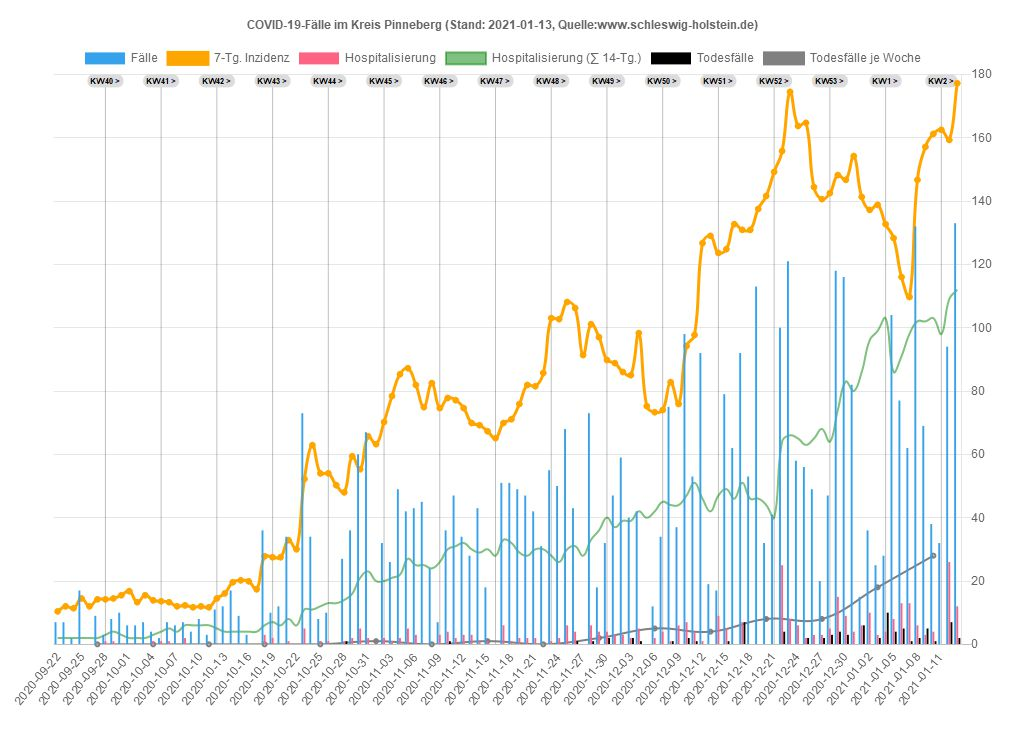
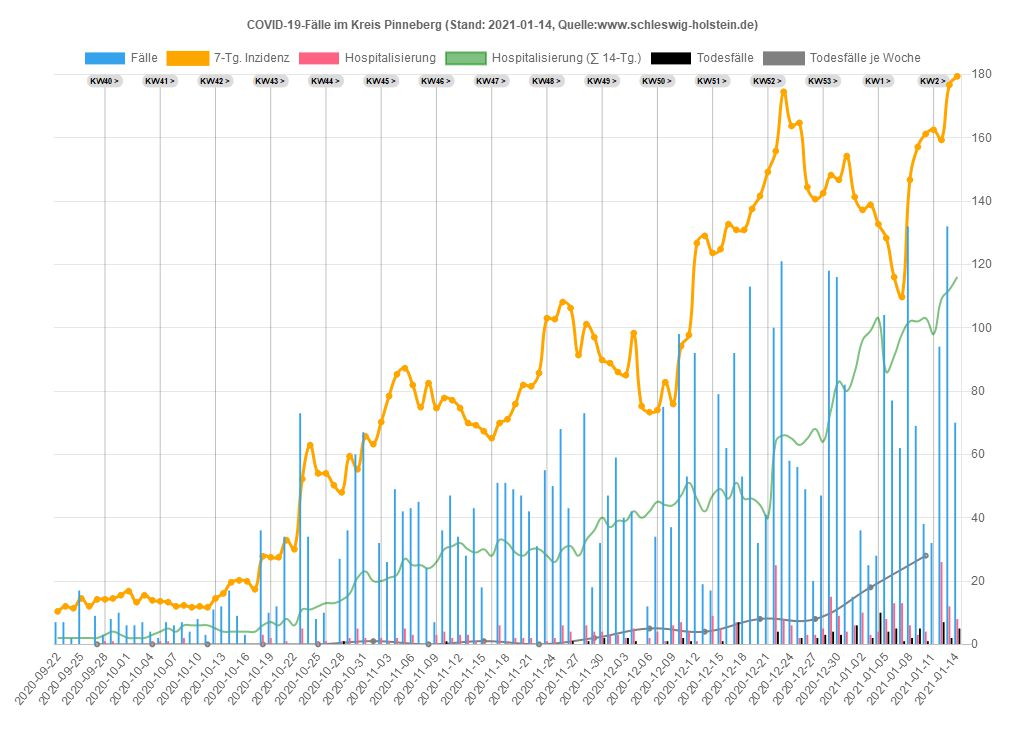
14.01.2021 20:09:24,05

Changed region(s): [[0.0625, 0.0931, 0.9375, 0.9622], [0.375, 0.4966, 0.5, 0.6208], [0.0938, 0.0931, 0.2188, 0.1242]]

diff --git a/sh/Data_SH.js b/sh/Data_SH.js
@@ -1,20 +1,20 @@
 var chdata={
-labels: ["2020-09-22","2020-09-23","2020-09-24","2020-09-25","2020-09-26","2020-09-27","2020-09-28","2020-09-29","2020-09-30","2020-10-01","2020-10-02","2020-10-03","2020-10-04","2020-10-05","2020-10-06","2020-10-07","2020-10-08","2020-10-09","2020-10-10","2020-10-11","2020-10-12","2020-10-13","2020-10-14","2020-10-15","2020-10-16","2020-10-17","2020-10-18","2020-10-19","2020-10-20","2020-10-21","2020-10-22","2020-10-23","2020-10-24","2020-10-25","2020-10-26","2020-10-27","2020-10-28","2020-10-29","2020-10-30","2020-10-31","2020-11-01","2020-11-02","2020-11-03","2020-11-04","2020-11-05","2020-11-06","2020-11-07","2020-11-08","2020-11-09","2020-11-10","2020-11-11","2020-11-12","2020-11-13","2020-11-14","2020-11-15","2020-11-16","2020-11-17","2020-11-18","2020-11-19","2020-11-20","2020-11-21","2020-11-22","2020-11-23","2020-11-24","2020-11-25","2020-11-26","2020-11-27","2020-11-28","2020-11-29","2020-11-30","2020-12-01","2020-12-02","2020-12-03","2020-12-04","2020-12-05","2020-12-06","2020-12-07","2020-12-08","2020-12-09","2020-12-10","2020-12-11","2020-12-12","2020-12-13","2020-12-14","2020-12-15","2020-12-16","2020-12-17","2020-12-18","2020-12-19","2020-12-20","2020-12-21","2020-12-22","2020-12-23","2020-12-24","2020-12-25","2020-12-26","2020-12-27","2020-12-28","2020-12-29","2020-12-30","2020-12-31","2021-01-01","2021-01-02","2021-01-03","2021-01-04","2021-01-05","2021-01-06","2021-01-07","2021-01-08","2021-01-09","2021-01-10","2021-01-11","2021-01-12","2021-01-13"],
+labels: ["2020-09-22","2020-09-23","2020-09-24","2020-09-25","2020-09-26","2020-09-27","2020-09-28","2020-09-29","2020-09-30","2020-10-01","2020-10-02","2020-10-03","2020-10-04","2020-10-05","2020-10-06","2020-10-07","2020-10-08","2020-10-09","2020-10-10","2020-10-11","2020-10-12","2020-10-13","2020-10-14","2020-10-15","2020-10-16","2020-10-17","2020-10-18","2020-10-19","2020-10-20","2020-10-21","2020-10-22","2020-10-23","2020-10-24","2020-10-25","2020-10-26","2020-10-27","2020-10-28","2020-10-29","2020-10-30","2020-10-31","2020-11-01","2020-11-02","2020-11-03","2020-11-04","2020-11-05","2020-11-06","2020-11-07","2020-11-08","2020-11-09","2020-11-10","2020-11-11","2020-11-12","2020-11-13","2020-11-14","2020-11-15","2020-11-16","2020-11-17","2020-11-18","2020-11-19","2020-11-20","2020-11-21","2020-11-22","2020-11-23","2020-11-24","2020-11-25","2020-11-26","2020-11-27","2020-11-28","2020-11-29","2020-11-30","2020-12-01","2020-12-02","2020-12-03","2020-12-04","2020-12-05","2020-12-06","2020-12-07","2020-12-08","2020-12-09","2020-12-10","2020-12-11","2020-12-12","2020-12-13","2020-12-14","2020-12-15","2020-12-16","2020-12-17","2020-12-18","2020-12-19","2020-12-20","2020-12-21","2020-12-22","2020-12-23","2020-12-24","2020-12-25","2020-12-26","2020-12-27","2020-12-28","2020-12-29","2020-12-30","2020-12-31","2021-01-01","2021-01-02","2021-01-03","2021-01-04","2021-01-05","2021-01-06","2021-01-07","2021-01-08","2021-01-09","2021-01-10","2021-01-11","2021-01-12","2021-01-13","2021-01-14"],
 datasets: [
 {label: 'Fälle',
 type: 'bar',
 backgroundColor: window.chartColors.blue,
-data: [38,42,63,53,15,15,38,48,49,27,50,16,24,39,54,45,79,54,26,25,65,65,65,55,90,26,88,163,111,160,136,236,142,115,164,164,280,215,313,265,161,142,236,262,220,274,233,177,215,252,247,192,296,158,161,100,294,208,264,250,153,121,145,251,256,225,180,219,71,81,244,240,245,318,234,122,179,356,340,443,429,444,144,210,506,522,489,553,440,193,280,589,673,366,177,201,188,268,576,466,357,135,264,203,265,542,537,482,523,408,140,263,402,462]},
+data: [38,42,63,53,15,15,38,48,49,27,50,16,24,39,54,45,79,54,26,25,65,65,65,55,90,26,88,163,111,160,136,236,142,115,164,164,280,215,313,265,161,142,236,262,220,274,233,177,215,252,247,192,296,158,161,100,294,208,264,250,153,121,145,251,256,225,180,219,71,81,244,240,245,318,234,122,179,356,340,443,429,444,144,210,506,522,489,553,440,193,280,589,673,366,177,201,188,268,576,466,357,135,264,203,265,542,537,482,523,408,142,262,401,488,401]},
 {label: '7-Tg. Inzidenz',
 type: 'line',
 fill: false,
 pointBackgroundColor: 'orange',
 borderColor: 'orange',
-data: [7.2,7.9,8.7,9.4,9.3,9.2,9.1,9.4,9.7,8.4,8.3,8.4,8.7,8.7,8.9,8.8,10.6,10.7,11.1,11.1,12.0,12.4,13.1,12.2,13.5,13.5,15.6,19.0,20.6,23.9,26.7,31.7,35.7,36.6,36.6,38.5,42.6,45.3,48.0,52.2,53.8,53.0,55.5,54.9,55.1,53.7,52.6,53.2,55.7,56.2,55.7,54.8,55.5,52.9,52.4,48.4,49.9,48.5,51.0,49.4,49.2,47.9,49.4,47.9,49.6,48.2,45.8,48.1,46.4,44.2,43.9,43.4,44.1,48.8,49.3,51.1,54.5,58.3,61.8,68.6,72.4,79.7,80.4,81.5,86.6,92.9,94.5,98.8,98.6,100.3,102.7,105.6,110.8,106.6,93.6,85.4,85.2,84.8,84.3,77.2,76.9,75.5,77.6,78.1,78.0,76.9,79.3,83.6,97.0,101.9,99.8,99.7,94.9,92.3]},
+data: [7.2,7.9,8.7,9.4,9.3,9.2,9.1,9.4,9.7,8.4,8.3,8.4,8.7,8.7,8.9,8.8,10.6,10.7,11.1,11.1,12.0,12.4,13.1,12.2,13.5,13.5,15.6,19.0,20.6,23.9,26.7,31.7,35.7,36.6,36.6,38.5,42.6,45.3,48.0,52.2,53.8,53.0,55.5,54.9,55.1,53.7,52.6,53.2,55.7,56.2,55.7,54.8,55.5,52.9,52.4,48.4,49.9,48.5,51.0,49.4,49.2,47.9,49.4,47.9,49.6,48.2,45.8,48.1,46.4,44.2,43.9,43.4,44.1,48.8,49.3,51.1,54.5,58.3,61.8,68.6,72.4,79.7,80.4,81.5,86.6,92.9,94.5,98.8,98.6,100.3,102.7,105.6,110.8,106.6,93.6,85.4,85.2,84.8,84.3,77.2,76.9,75.5,77.6,78.1,78.0,76.9,79.3,83.6,97.0,101.9,99.8,99.7,94.9,93.2,90.4]},
 {label: 'Hospitalisierung',
 type: 'bar',
 backgroundColor: window.chartColors.red,
-data: [1,2,7,1,0,0,2,1,3,1,1,0,4,3,1,1,4,2,0,3,5,1,1,2,4,0,9,10,8,9,12,7,5,6,7,7,11,10,11,6,3,9,19,20,15,15,5,7,13,15,21,13,17,8,17,13,23,10,15,9,7,7,13,16,26,19,12,14,15,10,12,8,10,14,3,5,24,13,26,20,14,12,6,26,27,16,20,18,8,13,13,43,35,23,17,21,26,25,46,33,33,20,34,32,51,58,35,46,34,30,22,45,69,51]},
+data: [1,2,7,1,0,0,2,1,3,1,1,0,4,3,1,1,4,2,0,3,5,1,1,2,4,0,9,10,8,9,12,7,5,6,7,7,11,10,11,6,3,9,19,20,15,15,5,7,13,15,21,13,17,8,17,13,23,10,15,9,7,7,13,16,26,19,12,14,15,10,12,8,10,14,3,5,24,13,26,20,14,12,6,26,27,16,20,18,8,13,13,43,35,23,17,21,26,25,46,33,33,20,34,32,51,58,35,46,34,30,22,45,69,51,59]},
 {label: 'Hosp. (∑ 14-Tg.)',
 type: 'line',
 fill: false,
@@ -22,17 +22,17 @@ hidden: true,
 borderColor: 'rgba(0,255,0,0.5)',
 borderWidth: 1.5,
 pointRadius: 0,
-data: [12,12,20,22,22,22,22,23,23,21,22,21,24,26,26,25,22,23,23,26,29,29,27,28,31,31,36,43,50,58,66,71,76,79,81,87,97,105,112,118,112,111,122,133,136,144,144,145,151,159,169,172,178,180,194,198,202,192,192,186,188,188,188,189,194,200,195,201,199,196,185,183,178,183,179,177,188,185,185,186,188,186,177,193,208,216,226,230,235,243,232,262,271,274,277,286,306,305,324,341,354,356,382,401,439,454,454,477,494,503,499,519,542,560]},
+data: [12,12,20,22,22,22,22,23,23,21,22,21,24,26,26,25,22,23,23,26,29,29,27,28,31,31,36,43,50,58,66,71,76,79,81,87,97,105,112,118,112,111,122,133,136,144,144,145,151,159,169,172,178,180,194,198,202,192,192,186,188,188,188,189,194,200,195,201,199,196,185,183,178,183,179,177,188,185,185,186,188,186,177,193,208,216,226,230,235,243,232,262,271,274,277,286,306,305,324,341,354,356,382,401,439,454,454,477,494,503,499,519,542,560,586]},
 {label: 'Aktuell im Krankenhaus',
 type: 'line',
 fill: false,
 pointBackgroundColor: 'green',
 borderColor: 'green',
-data: [6,6,6,6,6,6,6,11,11,11,11,14,14,15,15,14,14,14,13,13,18,18,18,21,24,24,24,24,31,31,31,31,51,51,58,58,58,58,58,58,58,94,110,114,119,118,124,120,126,116,113,119,112,116,116,148,145,151,141,141,141,141,155,142,122,113,118,118,118,124,114,110,109,114,114,114,131,122,128,132,133,133,133,177,181,194,201,212,236,250,275,271,267,262,262,262,262,309,318,322,346,346,376,376,390,412,376,379,364,364,364,384,362,373]},
+data: [6,6,6,6,6,6,6,11,11,11,11,14,14,15,15,14,14,14,13,13,18,18,18,21,24,24,24,24,31,31,31,31,51,51,58,58,58,58,58,58,58,94,110,114,119,118,124,120,126,116,113,119,112,116,116,148,145,151,141,141,141,141,155,142,122,113,118,118,118,124,114,110,109,114,114,114,131,122,128,132,133,133,133,177,181,194,201,212,236,250,275,271,267,262,262,262,262,309,318,322,346,346,376,376,390,412,376,379,364,364,364,384,362,373,382]},
 {label: 'Todesfälle',
 type: 'bar',
 backgroundColor: 'black',
-data: [0,0,0,0,0,0,0,1,0,0,0,0,0,0,0,0,0,0,0,0,0,1,0,0,0,0,0,0,0,0,1,0,0,3,0,0,3,4,1,0,2,6,7,2,2,6,0,1,4,3,5,0,5,1,3,5,0,2,2,2,1,0,3,4,1,3,3,1,4,2,3,1,4,1,0,1,4,2,5,7,7,1,2,2,6,7,11,3,2,0,9,15,4,3,4,7,10,18,17,14,2,9,7,3,29,22,17,6,14,11,9,15,25,15]},
+data: [0,0,0,0,0,0,0,1,0,0,0,0,0,0,0,0,0,0,0,0,0,1,0,0,0,0,0,0,0,0,1,0,0,3,0,0,3,4,1,0,2,6,7,2,2,6,0,1,4,3,5,0,5,1,3,5,0,2,2,2,1,0,3,4,1,3,3,1,4,2,3,1,4,1,0,1,4,2,5,7,7,1,2,2,6,7,11,3,2,0,9,15,4,3,4,7,10,18,17,14,2,9,7,3,29,22,17,6,14,11,9,15,25,15,15]},
 {label: 'Todesfälle je Woche',
 type: 'line',
 fill: false,
@@ -41,6 +41,6 @@ borderColor: 'rgba(128,128,128,1)',
 borderWidth: 2,
 pointRadius: 2,
 yAxisID: 'first-y-axis',
-data: [,,,,,0,,,,,,,1,,,,,,,0,,,,,,,1,,,,,,,4,,,,,,,10,,,,,,,24,,,,,,,21,,,,,,,12,,,,,,,19,,,,,,,12,,,,,,,28,,,,,,,31,,,,,,,52,,,,,,,70,,,,,,,108,,,]},
+data: [,,,,,0,,,,,,,1,,,,,,,0,,,,,,,1,,,,,,,4,,,,,,,10,,,,,,,24,,,,,,,21,,,,,,,12,,,,,,,19,,,,,,,12,,,,,,,28,,,,,,,31,,,,,,,52,,,,,,,70,,,,,,,108,,,,]},
 ]};
 

diff --git a/sh/Data_SH_Alter.js b/sh/Data_SH_Alter.js
@@ -124,7 +124,8 @@ var chdata={
 				{x: '2021-01-10', y: 'Alle', v: 96.9772775, casesum: 2816},{x: '2021-01-10', y: '00-09', v: 30.7725867, casesum: 79},{x: '2021-01-10', y: '10-19', v: 74.6357882, casesum: 206},{x: '2021-01-10', y: '20-29', v: 149.39274, casesum: 478},{x: '2021-01-10', y: '30-39', v: 121.693956, casesum: 409},{x: '2021-01-10', y: '40-49', v: 97.3124183, casesum: 343},{x: '2021-01-10', y: '50-59', v: 88.2113682, casesum: 437},{x: '2021-01-10', y: '60-69', v: 66.5694716, casesum: 242},{x: '2021-01-10', y: '70-79', v: 71.9762377, casesum: 213},{x: '2021-01-10', y: '80-89', v: 162.713457, casesum: 291},{x: '2021-01-10', y: '90+', v: 409.494725, casesum: 118},
 				{x: '2021-01-11', y: 'Alle', v: 96.2196425, casesum: 2794},{x: '2021-01-11', y: '00-09', v: 30.3830603, casesum: 78},{x: '2021-01-11', y: '10-19', v: 74.2734786, casesum: 205},{x: '2021-01-11', y: '20-29', v: 145.017221, casesum: 464},{x: '2021-01-11', y: '30-39', v: 118.421013, casesum: 398},{x: '2021-01-11', y: '40-49', v: 93.9079022, casesum: 331},{x: '2021-01-11', y: '50-59', v: 84.9816613, casesum: 421},{x: '2021-01-11', y: '60-69', v: 66.844552, casesum: 243},{x: '2021-01-11', y: '70-79', v: 72.9899875, casesum: 216},{x: '2021-01-11', y: '80-89', v: 170.541595, casesum: 305},{x: '2021-01-11', y: '90+', v: 461.549139, casesum: 133},
 				{x: '2021-01-12', y: 'Alle', v: 92.6380953, casesum: 2690},{x: '2021-01-12', y: '00-09', v: 29.9935339, casesum: 77},{x: '2021-01-12', y: '10-19', v: 77.5342654, casesum: 214},{x: '2021-01-12', y: '20-29', v: 140.954238, casesum: 451},{x: '2021-01-12', y: '30-39', v: 118.421013, casesum: 398},{x: '2021-01-12', y: '40-49', v: 83.6943539, casesum: 295},{x: '2021-01-12', y: '50-59', v: 77.9166776, casesum: 386},{x: '2021-01-12', y: '60-69', v: 65.4691497, casesum: 238},{x: '2021-01-12', y: '70-79', v: 66.569572, casesum: 197},{x: '2021-01-12', y: '80-89', v: 171.100748, casesum: 306},{x: '2021-01-12', y: '90+', v: 444.197668, casesum: 128},
-				{x: '2021-01-13', y: 'Alle', v: 90.3651904, casesum: 2624},{x: '2021-01-13', y: '00-09', v: 27.6563754, casesum: 71},{x: '2021-01-13', y: '10-19', v: 76.8096461, casesum: 212},{x: '2021-01-13', y: '20-29', v: 133.14081, casesum: 426},{x: '2021-01-13', y: '30-39', v: 116.338232, casesum: 391},{x: '2021-01-13', y: '40-49', v: 81.7083862, casesum: 288},{x: '2021-01-13', y: '50-59', v: 76.0999675, casesum: 377},{x: '2021-01-13', y: '60-69', v: 62.1681842, casesum: 226},{x: '2021-01-13', y: '70-79', v: 66.569572, casesum: 197},{x: '2021-01-13', y: '80-89', v: 173.337359, casesum: 310},{x: '2021-01-13', y: '90+', v: 437.257079, casesum: 126}
+				{x: '2021-01-13', y: 'Alle', v: 90.3651904, casesum: 2624},{x: '2021-01-13', y: '00-09', v: 27.6563754, casesum: 71},{x: '2021-01-13', y: '10-19', v: 76.8096461, casesum: 212},{x: '2021-01-13', y: '20-29', v: 133.14081, casesum: 426},{x: '2021-01-13', y: '30-39', v: 116.338232, casesum: 391},{x: '2021-01-13', y: '40-49', v: 81.7083862, casesum: 288},{x: '2021-01-13', y: '50-59', v: 76.0999675, casesum: 377},{x: '2021-01-13', y: '60-69', v: 62.1681842, casesum: 226},{x: '2021-01-13', y: '70-79', v: 66.569572, casesum: 197},{x: '2021-01-13', y: '80-89', v: 173.337359, casesum: 310},{x: '2021-01-13', y: '90+', v: 437.257079, casesum: 126},
+				{x: '2021-01-14', y: 'Alle', v: 88.5744168, casesum: 2572},{x: '2021-01-14', y: '00-09', v: 32.3306923, casesum: 83},{x: '2021-01-14', y: '10-19', v: 74.9980979, casesum: 207},{x: '2021-01-14', y: '20-29', v: 131.265588, casesum: 420},{x: '2021-01-14', y: '30-39', v: 115.743151, casesum: 389},{x: '2021-01-14', y: '40-49', v: 78.8712894, casesum: 278},{x: '2021-01-14', y: '50-59', v: 74.8888274, casesum: 371},{x: '2021-01-14', y: '60-69', v: 58.5921382, casesum: 213},{x: '2021-01-14', y: '70-79', v: 66.569572, casesum: 197},{x: '2021-01-14', y: '80-89', v: 164.950068, casesum: 295},{x: '2021-01-14', y: '90+', v: 412.965019, casesum: 119}
 			],
 			backgroundColor: function(context) {
 				return inzColor(context.dataset.data[context.dataIndex].v)
@@ -132,7 +133,7 @@ var chdata={
 			width: function(context) {
 				const a = context.chart.chartArea
 				if (!a) return 0
-				return (a.right - a.left) / 121.5
+				return (a.right - a.left) / 122.5
 			},
 			height: function(context) {
 				const a = context.chart.chartArea
@@ -144,7 +145,7 @@ var chdata={
 	options: {
 		legend: { display: false },
 		scales: {
-			xAxes: [{type: 'category', labels: ["2020-09-15","2020-09-16","2020-09-17","2020-09-18","2020-09-19","2020-09-20","2020-09-21","2020-09-22","2020-09-23","2020-09-24","2020-09-25","2020-09-26","2020-09-27","2020-09-28","2020-09-29","2020-09-30","2020-10-01","2020-10-02","2020-10-03","2020-10-04","2020-10-05","2020-10-06","2020-10-07","2020-10-08","2020-10-09","2020-10-10","2020-10-11","2020-10-12","2020-10-13","2020-10-14","2020-10-15","2020-10-16","2020-10-17","2020-10-18","2020-10-19","2020-10-20","2020-10-21","2020-10-22","2020-10-23","2020-10-24","2020-10-25","2020-10-26","2020-10-27","2020-10-28","2020-10-29","2020-10-30","2020-10-31","2020-11-01","2020-11-02","2020-11-03","2020-11-04","2020-11-05","2020-11-06","2020-11-07","2020-11-08","2020-11-09","2020-11-10","2020-11-11","2020-11-12","2020-11-13","2020-11-14","2020-11-15","2020-11-16","2020-11-17","2020-11-18","2020-11-19","2020-11-20","2020-11-21","2020-11-22","2020-11-23","2020-11-24","2020-11-25","2020-11-26","2020-11-27","2020-11-28","2020-11-29","2020-11-30","2020-12-01","2020-12-02","2020-12-03","2020-12-04","2020-12-05","2020-12-06","2020-12-07","2020-12-08","2020-12-09","2020-12-10","2020-12-11","2020-12-12","2020-12-13","2020-12-14","2020-12-15","2020-12-16","2020-12-17","2020-12-18","2020-12-19","2020-12-20","2020-12-21","2020-12-22","2020-12-23","2020-12-24","2020-12-25","2020-12-26","2020-12-27","2020-12-28","2020-12-29","2020-12-30","2020-12-31","2021-01-01","2021-01-02","2021-01-03","2021-01-04","2021-01-05","2021-01-06","2021-01-07","2021-01-08","2021-01-09","2021-01-10","2021-01-11","2021-01-12","2021-01-13",], ticks: {display: true},gridlines:{display:false}}],
+			xAxes: [{type: 'category', labels: ["2020-09-15","2020-09-16","2020-09-17","2020-09-18","2020-09-19","2020-09-20","2020-09-21","2020-09-22","2020-09-23","2020-09-24","2020-09-25","2020-09-26","2020-09-27","2020-09-28","2020-09-29","2020-09-30","2020-10-01","2020-10-02","2020-10-03","2020-10-04","2020-10-05","2020-10-06","2020-10-07","2020-10-08","2020-10-09","2020-10-10","2020-10-11","2020-10-12","2020-10-13","2020-10-14","2020-10-15","2020-10-16","2020-10-17","2020-10-18","2020-10-19","2020-10-20","2020-10-21","2020-10-22","2020-10-23","2020-10-24","2020-10-25","2020-10-26","2020-10-27","2020-10-28","2020-10-29","2020-10-30","2020-10-31","2020-11-01","2020-11-02","2020-11-03","2020-11-04","2020-11-05","2020-11-06","2020-11-07","2020-11-08","2020-11-09","2020-11-10","2020-11-11","2020-11-12","2020-11-13","2020-11-14","2020-11-15","2020-11-16","2020-11-17","2020-11-18","2020-11-19","2020-11-20","2020-11-21","2020-11-22","2020-11-23","2020-11-24","2020-11-25","2020-11-26","2020-11-27","2020-11-28","2020-11-29","2020-11-30","2020-12-01","2020-12-02","2020-12-03","2020-12-04","2020-12-05","2020-12-06","2020-12-07","2020-12-08","2020-12-09","2020-12-10","2020-12-11","2020-12-12","2020-12-13","2020-12-14","2020-12-15","2020-12-16","2020-12-17","2020-12-18","2020-12-19","2020-12-20","2020-12-21","2020-12-22","2020-12-23","2020-12-24","2020-12-25","2020-12-26","2020-12-27","2020-12-28","2020-12-29","2020-12-30","2020-12-31","2021-01-01","2021-01-02","2021-01-03","2021-01-04","2021-01-05","2021-01-06","2021-01-07","2021-01-08","2021-01-09","2021-01-10","2021-01-11","2021-01-12","2021-01-13","2021-01-14",], ticks: {display: true},gridlines:{display:false}}],
 			yAxes: [{type: 'category', labels: ["Alle","00-09","10-19","20-29","30-39","40-49","50-59","60-69","70-79","80-89","90+"], offset:true, ticks: {display: true},gridlines:{display:false}}],
 		},
 	}

diff --git a/sh/Kreis_PI.js b/sh/Kreis_PI.js
@@ -1,23 +1,23 @@
 var chdata={
-labels: ["2020-09-22","2020-09-23","2020-09-24","2020-09-25","2020-09-26","2020-09-27","2020-09-28","2020-09-29","2020-09-30","2020-10-01","2020-10-02","2020-10-03","2020-10-04","2020-10-05","2020-10-06","2020-10-07","2020-10-08","2020-10-09","2020-10-10","2020-10-11","2020-10-12","2020-10-13","2020-10-14","2020-10-15","2020-10-16","2020-10-17","2020-10-18","2020-10-19","2020-10-20","2020-10-21","2020-10-22","2020-10-23","2020-10-24","2020-10-25","2020-10-26","2020-10-27","2020-10-28","2020-10-29","2020-10-30","2020-10-31","2020-11-01","2020-11-02","2020-11-03","2020-11-04","2020-11-05","2020-11-06","2020-11-07","2020-11-08","2020-11-09","2020-11-10","2020-11-11","2020-11-12","2020-11-13","2020-11-14","2020-11-15","2020-11-16","2020-11-17","2020-11-18","2020-11-19","2020-11-20","2020-11-21","2020-11-22","2020-11-23","2020-11-24","2020-11-25","2020-11-26","2020-11-27","2020-11-28","2020-11-29","2020-11-30","2020-12-01","2020-12-02","2020-12-03","2020-12-04","2020-12-05","2020-12-06","2020-12-07","2020-12-08","2020-12-09","2020-12-10","2020-12-11","2020-12-12","2020-12-13","2020-12-14","2020-12-15","2020-12-16","2020-12-17","2020-12-18","2020-12-19","2020-12-20","2020-12-21","2020-12-22","2020-12-23","2020-12-24","2020-12-25","2020-12-26","2020-12-27","2020-12-28","2020-12-29","2020-12-30","2020-12-31","2021-01-01","2021-01-02","2021-01-03","2021-01-04","2021-01-05","2021-01-06","2021-01-07","2021-01-08","2021-01-09","2021-01-10","2021-01-11","2021-01-12","2021-01-13"],
+labels: ["2020-09-22","2020-09-23","2020-09-24","2020-09-25","2020-09-26","2020-09-27","2020-09-28","2020-09-29","2020-09-30","2020-10-01","2020-10-02","2020-10-03","2020-10-04","2020-10-05","2020-10-06","2020-10-07","2020-10-08","2020-10-09","2020-10-10","2020-10-11","2020-10-12","2020-10-13","2020-10-14","2020-10-15","2020-10-16","2020-10-17","2020-10-18","2020-10-19","2020-10-20","2020-10-21","2020-10-22","2020-10-23","2020-10-24","2020-10-25","2020-10-26","2020-10-27","2020-10-28","2020-10-29","2020-10-30","2020-10-31","2020-11-01","2020-11-02","2020-11-03","2020-11-04","2020-11-05","2020-11-06","2020-11-07","2020-11-08","2020-11-09","2020-11-10","2020-11-11","2020-11-12","2020-11-13","2020-11-14","2020-11-15","2020-11-16","2020-11-17","2020-11-18","2020-11-19","2020-11-20","2020-11-21","2020-11-22","2020-11-23","2020-11-24","2020-11-25","2020-11-26","2020-11-27","2020-11-28","2020-11-29","2020-11-30","2020-12-01","2020-12-02","2020-12-03","2020-12-04","2020-12-05","2020-12-06","2020-12-07","2020-12-08","2020-12-09","2020-12-10","2020-12-11","2020-12-12","2020-12-13","2020-12-14","2020-12-15","2020-12-16","2020-12-17","2020-12-18","2020-12-19","2020-12-20","2020-12-21","2020-12-22","2020-12-23","2020-12-24","2020-12-25","2020-12-26","2020-12-27","2020-12-28","2020-12-29","2020-12-30","2020-12-31","2021-01-01","2021-01-02","2021-01-03","2021-01-04","2021-01-05","2021-01-06","2021-01-07","2021-01-08","2021-01-09","2021-01-10","2021-01-11","2021-01-12","2021-01-13","2021-01-14"],
 datasets: [
 {label: 'Fälle',
 type: 'bar',
 backgroundColor: window.chartColors.blue,
 yAxisID: 'first-y-axis',
-data: [7,7,2,17,0,9,3,8,10,6,6,7,4,2,7,6,7,4,8,3,11,12,17,9,3,0,36,10,12,34,0,73,34,8,10,0,27,36,60,67,0,32,26,49,42,43,45,24,7,36,47,34,28,43,18,0,51,51,49,47,42,31,55,50,68,43,0,73,18,32,47,59,40,42,0,12,34,75,37,98,53,92,19,17,79,62,92,53,113,32,41,100,121,58,56,49,20,47,118,116,82,15,36,25,28,104,77,62,132,69,38,32,94,133]},
+data: [7,7,2,17,0,9,3,8,10,6,6,7,4,2,7,6,7,4,8,3,11,12,17,9,3,0,36,10,12,34,0,73,34,8,10,0,27,36,60,67,0,32,26,49,42,43,45,24,7,36,47,34,28,43,18,0,51,51,49,47,42,31,55,50,68,43,0,73,18,32,47,59,40,42,0,12,34,75,37,98,53,92,19,17,79,62,92,53,113,32,41,100,121,58,56,49,20,47,118,116,82,15,36,25,28,104,77,62,132,69,38,32,94,132,70]},
 {label: '7-Tg. Inzidenz',
 type: 'line',
 fill: false,
 pointBackgroundColor: 'orange',
 borderColor: 'orange',
 yAxisID: 'first-y-axis',
-data: [10.4,12.0,11.4,14.5,12.0104175,14.2,14.2,14.5,15.5,16.8,13.3,15.5,13.9,13.6,13.3,12.0,12.3,11.7,12.0,11.7,14.5,16.1,19.6,20.2,19.9,17.383499,27.8,27.5,27.5,32.9,30.0260436,52.2,62.9,54.0,54.0,50.2541151,48.0,59.4,55.3,65.7,63.2127235,70.2,78.4,85.3,87.2,81.9,74.9,82.5,74.6,77.8,77.1,74.6,69.9,69.2,67.3,65.1091052,69.9,71.1,75.9,81.9,81.5,85.7,103.0,102.7,108.1,106.2,91.3423854,101.1,97.0,89.8,88.8,86.0,85.0,98.3,75.2231409,73.3,74.0,82.8,75.9,94.2,97.7,126.7,129.0,123.6,124.8,132.7,130.9,130.9,137.5,141.6,149.2,155.8,174.5,163.7,164.7,144.4,140.6,142.5,148.2,146.7,154.2,141.3,137.2,138.8,132.7,128.3,116.0,109.7,146.7,157.1,161.2,162.5,159.3,177.2]},
+data: [10.4,12.0,11.4,14.5,12.0104175,14.2,14.2,14.5,15.5,16.8,13.3,15.5,13.9,13.6,13.3,12.0,12.3,11.7,12.0,11.7,14.5,16.1,19.6,20.2,19.9,17.383499,27.8,27.5,27.5,32.9,30.0260436,52.2,62.9,54.0,54.0,50.2541151,48.0,59.4,55.3,65.7,63.2127235,70.2,78.4,85.3,87.2,81.9,74.9,82.5,74.6,77.8,77.1,74.6,69.9,69.2,67.3,65.1091052,69.9,71.1,75.9,81.9,81.5,85.7,103.0,102.7,108.1,106.2,91.3423854,101.1,97.0,89.8,88.8,86.0,85.0,98.3,75.2231409,73.3,74.0,82.8,75.9,94.2,97.7,126.7,129.0,123.6,124.8,132.7,130.9,130.9,137.5,141.6,149.2,155.8,174.5,163.7,164.7,144.4,140.6,142.5,148.2,146.7,154.2,141.3,137.2,138.8,132.7,128.3,116.0,109.7,146.7,157.1,161.2,162.5,159.3,176.7,179.4]},
 {label: 'Hospitalisierung',
 type: 'bar',
 backgroundColor: window.chartColors.red,
 yAxisID: 'first-y-axis',
-data: [0,0,0,0,0,0,1,1,0,0,0,0,1,1,1,-1,2,0,0,0,0,0,0,0,0,0,3,2,0,1,0,5,0,1,1,0,1,2,5,2,0,2,1,2,5,3,0,0,3,4,2,3,3,1,1,0,6,1,2,2,2,0,1,2,6,4,0,6,4,4,3,3,2,5,0,2,4,1,6,7,4,1,0,9,5,0,7,0,0,0,0,25,8,6,2,3,3,5,15,9,4,6,10,3,4,8,13,13,6,3,4,0,26,12]},
+data: [0,0,0,0,0,0,1,1,0,0,0,0,1,1,1,-1,2,0,0,0,0,0,0,0,0,0,3,2,0,1,0,5,0,1,1,0,1,2,5,2,0,2,1,2,5,3,0,0,3,4,2,3,3,1,1,0,6,1,2,2,2,0,1,2,6,4,0,6,4,4,3,3,2,5,0,2,4,1,6,7,4,1,0,9,5,0,7,0,0,0,0,25,8,6,2,3,3,5,15,9,4,6,10,3,4,8,13,13,6,3,4,0,26,12,8]},
 {label: 'Hospitalisierung (∑ 14-Tg.)',
 type: 'line',
 pointRadius: 0,
@@ -25,12 +25,12 @@ fill: false,
 borderColor: 'rgba(0,128,0,0.5)',
 borderWidth: 2,
 yAxisID: 'first-y-axis',
-data: [2,2,2,2,2,2,3,4,3,2,2,2,3,4,5,4,6,6,6,6,5,4,4,4,4,4,6,7,6,8,6,11,11,12,13,13,14,16,21,23,20,20,21,22,27,25,25,24,26,30,31,32,30,29,30,28,33,32,29,28,30,30,28,26,30,31,28,33,36,40,37,39,39,42,40,42,45,44,44,47,51,46,42,47,49,46,51,46,46,44,40,64,66,65,63,65,68,64,74,83,80,86,96,99,103,86,91,98,102,102,103,98,109,112]},
+data: [2,2,2,2,2,2,3,4,3,2,2,2,3,4,5,4,6,6,6,6,5,4,4,4,4,4,6,7,6,8,6,11,11,12,13,13,14,16,21,23,20,20,21,22,27,25,25,24,26,30,31,32,30,29,30,28,33,32,29,28,30,30,28,26,30,31,28,33,36,40,37,39,39,42,40,42,45,44,44,47,51,46,42,47,49,46,51,46,46,44,40,64,66,65,63,65,68,64,74,83,80,86,96,99,103,86,91,98,102,102,103,98,109,112,116]},
 {label: 'Todesfälle',
 type: 'bar',
 backgroundColor: 'black',
 yAxisID: 'first-y-axis',
-data: [0,0,0,0,0,0,0,0,0,0,0,0,0,0,0,0,0,0,0,0,0,0,0,0,0,0,0,0,0,0,0,0,0,0,0,0,1,0,0,0,0,0,0,0,0,0,0,0,0,1,0,0,0,0,0,0,0,0,0,0,0,0,0,0,0,1,0,1,0,2,0,0,2,1,0,0,0,1,0,2,1,0,0,0,1,0,7,0,0,0,0,4,0,0,2,0,2,3,4,3,0,6,0,2,10,4,5,1,2,5,1,0,7,2]},
+data: [0,0,0,0,0,0,0,0,0,0,0,0,0,0,0,0,0,0,0,0,0,0,0,0,0,0,0,0,0,0,0,0,0,0,0,0,1,0,0,0,0,0,0,0,0,0,0,0,0,1,0,0,0,0,0,0,0,0,0,0,0,0,0,0,0,1,0,1,0,2,0,0,2,1,0,0,0,1,0,2,1,0,0,0,1,0,7,0,0,0,0,4,0,0,2,0,2,3,4,3,0,6,0,2,10,4,5,1,2,5,1,0,7,2,5]},
 {label: 'Todesfälle je Woche',
 type: 'line',
 fill: false,
@@ -39,6 +39,6 @@ borderColor: 'rgba(128,128,128,1)',
 borderWidth: 2,
 pointRadius: 2,
 yAxisID: 'first-y-axis',
-data: [,,,,,0,,,,,,,0,,,,,,,0,,,,,,,0,,,,,,,0,,,,,,,1,,,,,,,0,,,,,,,1,,,,,,,0,,,,,,,2,,,,,,,5,,,,,,,4,,,,,,,8,,,,,,,8,,,,,,,18,,,,,,,28,,,]},
+data: [,,,,,0,,,,,,,0,,,,,,,0,,,,,,,0,,,,,,,0,,,,,,,1,,,,,,,0,,,,,,,1,,,,,,,0,,,,,,,2,,,,,,,5,,,,,,,4,,,,,,,8,,,,,,,8,,,,,,,18,,,,,,,28,,,,]},
 ]};
 

diff --git a/sh/index_sh_alter.html b/sh/index_sh_alter.html
@@ -5,7 +5,7 @@
 <meta property="og:image" content="index_sh_alter.jpg" />
 <meta property="og:type" content="website" />
 <meta property="og:locale" content="de_DE" />
-<meta property="og:updated_time" content="2021-01-14T17:02:09+01:00" />
+<meta property="og:updated_time" content="2021-01-14T20:09:21+01:00" />
 <title>Altersverteilung der COVID-19-Fälle in Schleswig-Holstein</title>
 <link rel="stylesheet" href="../css/style.css" media="screen" type="text/css">
 <link rel="stylesheet" media="screen" href="Chart.min.css"> 

diff --git a/sh/index_pi_alter.html b/sh/index_pi_alter.html
@@ -5,7 +5,7 @@
 <meta property="og:image" content="index_pi_alter.jpg" />
 <meta property="og:type" content="website" />
 <meta property="og:locale" content="de_DE" />
-<meta property="og:updated_time" content="2021-01-14T17:02:09+01:00" />
+<meta property="og:updated_time" content="2021-01-14T20:09:21+01:00" />
 <title>Altersverteilung der COVID-19-Fälle im Kreis Pinneberg</title>
 <link rel="stylesheet" href="../css/style.css" media="screen" type="text/css">
 <link rel="stylesheet" media="screen" href="Chart.min.css"> 

diff --git a/sh/index.html b/sh/index.html
@@ -5,7 +5,7 @@
 <meta property="og:image" content="index.jpg" />
 <meta property="og:type" content="website" />
 <meta property="og:locale" content="de_DE" />
-<meta property="og:updated_time" content="2021-01-14T17:02:09+01:00" />
+<meta property="og:updated_time" content="2021-01-14T20:09:21+01:00" />
 <title>COVID-19-Fälle im Kreis Pinneberg</title>
 <link rel="stylesheet" href="../css/style.css" media="screen" type="text/css">
 <link rel="stylesheet" media="screen" href="Chart.min.css"> 
